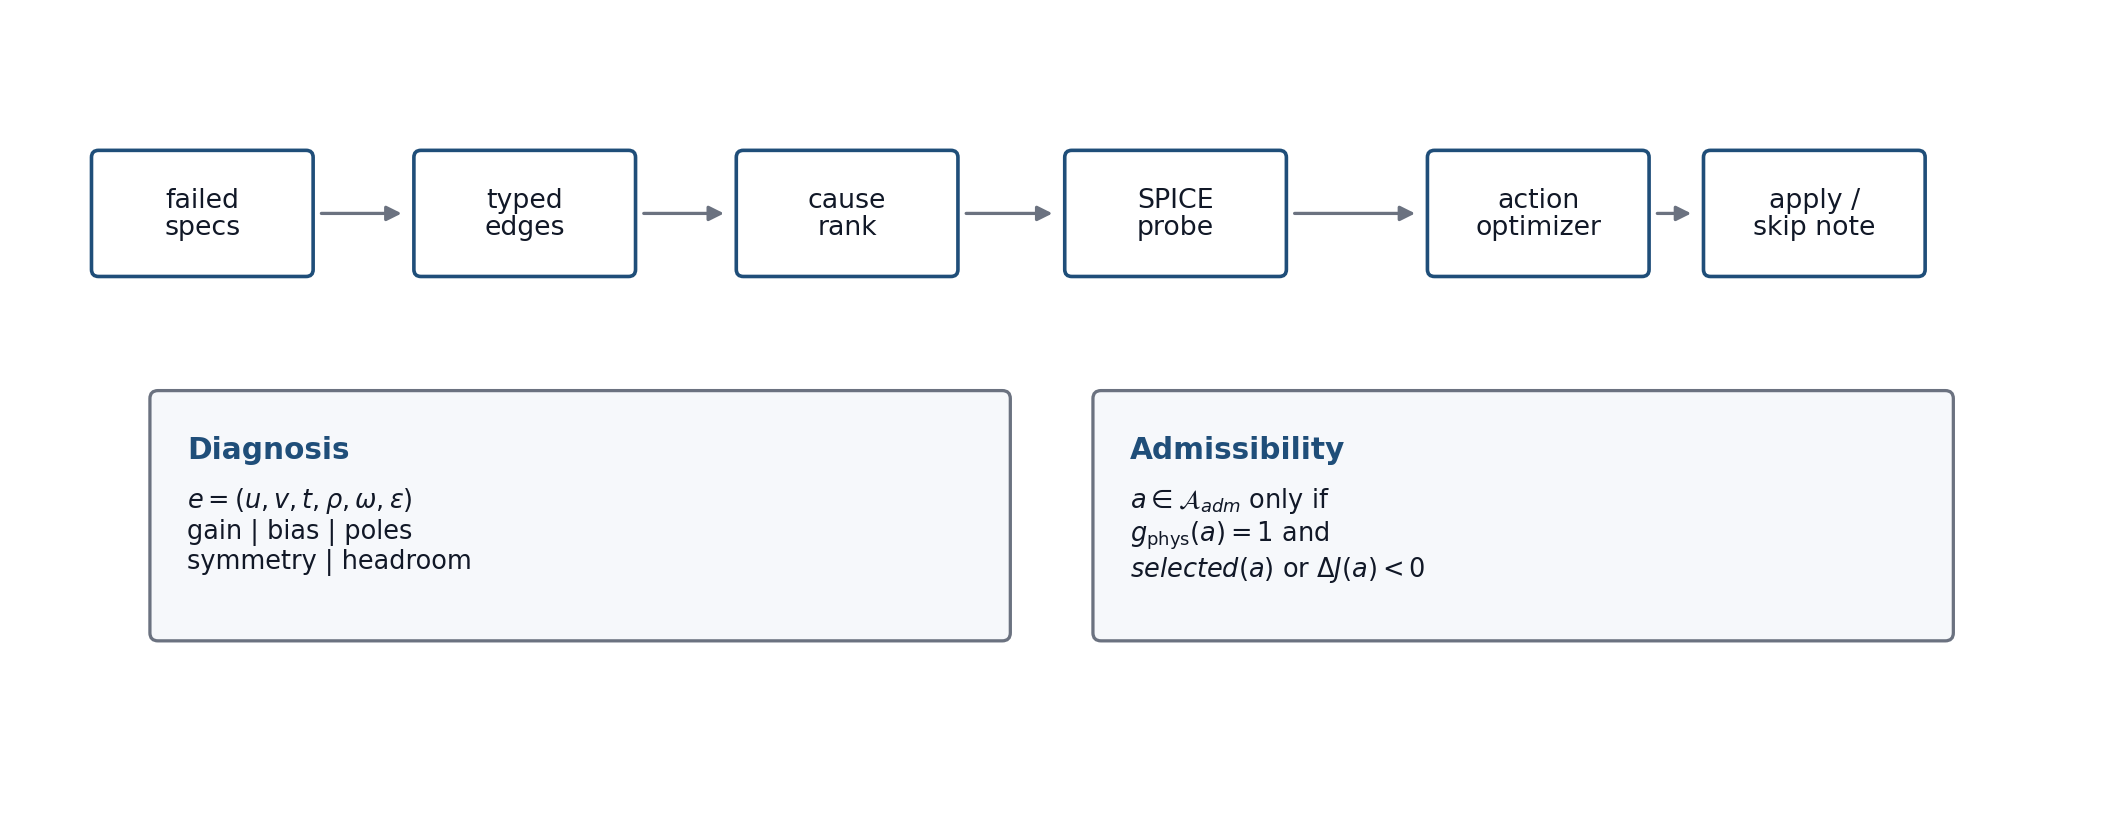
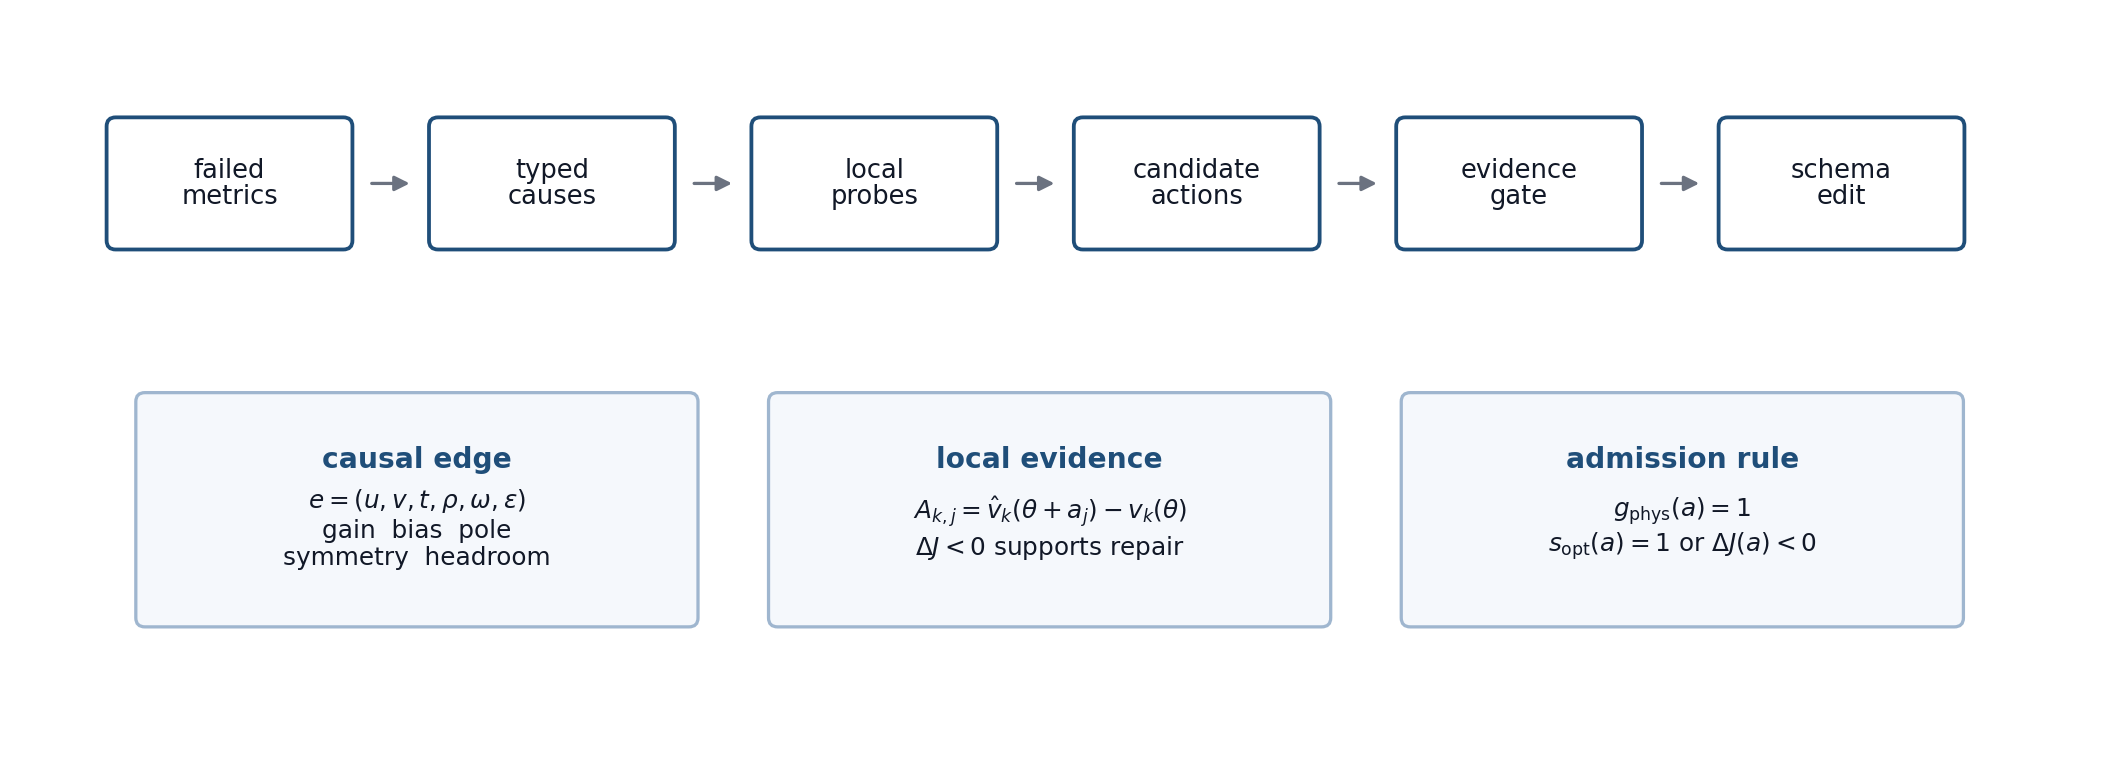
Refocus diagnosis documentation figures

diff --git a/scripts/plot_method_figures.py b/scripts/plot_method_figures.py
@@ -126,46 +126,44 @@ def draw_optimization_loop() -> plt.Figure:
 
 
 def draw_diagnosis_loop() -> plt.Figure:
-    fig, ax = base_fig(10.2, 3.85)
+    fig, ax = base_fig(10.2, 3.65)
 
-    stages = [
-        (0.35, "failed\nspecs"),
-        (1.95, "typed\nedges"),
-        (3.55, "cause\nrank"),
-        (5.18, "SPICE\nprobe"),
-        (6.98, "action\noptimizer"),
-        (8.35, "apply /\nskip note"),
+    stage_w = 1.18
+    stage_h = 0.62
+    y = 2.55
+    xs = [0.42, 2.02, 3.62, 5.22, 6.82, 8.42]
+    labels = [
+        "failed\nmetrics",
+        "typed\ncauses",
+        "local\nprobes",
+        "candidate\nactions",
+        "evidence\ngate",
+        "schema\nedit",
     ]
-    for i, (x, label) in enumerate(stages):
-        node(ax, x, 2.62, 1.05, 0.58, label)
-        if i < len(stages) - 1:
-            arrow(ax, x + 1.08, 2.91, stages[i + 1][0] - 0.05, 2.91)
+    for i, (x, label) in enumerate(zip(xs, labels)):
+        flow_node(ax, x, y, stage_w, stage_h, label)
+        if i < len(xs) - 1:
+            arrow(ax, x + stage_w + 0.08, y + stage_h / 2, xs[i + 1] - 0.08, y + stage_h / 2)
 
-    panel(
-        ax,
-        0.66,
-        0.82,
-        4.18,
-        1.16,
-        "Diagnosis",
-        [
-            r"$e=(u,v,t,\rho,\omega,\epsilon)$",
-            "gain | bias | poles\nsymmetry | headroom",
-        ],
-    )
-    panel(
-        ax,
-        5.34,
-        0.82,
-        4.18,
-        1.16,
-        "Admissibility",
-        [
-            r"$a\in\mathcal{A}_{adm}$ only if",
-            r"$g_{\rm phys}(a)=1$ and",
-            r"$selected(a)$ or $\Delta J(a)<0$",
-        ],
-    )
+    cards = [
+        (
+            0.58,
+            "causal edge",
+            [r"$e=(u,v,t,\rho,\omega,\epsilon)$", "gain  bias  pole", "symmetry  headroom"],
+        ),
+        (
+            3.72,
+            "local evidence",
+            [r"$A_{k,j}=\hat v_k(\theta+a_j)-v_k(\theta)$", r"$\Delta J < 0$ supports repair"],
+        ),
+        (
+            6.86,
+            "admission rule",
+            [r"$g_{\rm phys}(a)=1$", r"$s_{\rm opt}(a)=1$ or $\Delta J(a)<0$"],
+        ),
+    ]
+    for x, heading, lines in cards:
+        evidence_card(ax, x, 0.68, 2.72, 1.10, heading, lines)
     return fig
 
 
@@ -193,6 +191,35 @@ def node(ax: plt.Axes, x: float, y: float, w: float, h: float, text: str) -> Non
     )
     ax.add_patch(patch)
     ax.text(x + w / 2, y + h / 2, text, ha="center", va="center", fontsize=7.4, color=INK, linespacing=1.05)
+
+
+def flow_node(ax: plt.Axes, x: float, y: float, w: float, h: float, text: str) -> None:
+    patch = FancyBboxPatch(
+        (x, y),
+        w,
+        h,
+        boxstyle="round,pad=0.020,rounding_size=0.045",
+        linewidth=1.05,
+        edgecolor=ACCENT,
+        facecolor=WHITE,
+    )
+    ax.add_patch(patch)
+    ax.text(x + w / 2, y + h / 2, text, ha="center", va="center", fontsize=7.15, color=INK, linespacing=1.03)
+
+
+def evidence_card(ax: plt.Axes, x: float, y: float, w: float, h: float, heading: str, lines: list[str]) -> None:
+    patch = FancyBboxPatch(
+        (x, y),
+        w,
+        h,
+        boxstyle="round,pad=0.035,rounding_size=0.045",
+        linewidth=0.9,
+        edgecolor="#9fb6cf",
+        facecolor="#f5f8fc",
+    )
+    ax.add_patch(patch)
+    ax.text(x + w / 2, y + h - 0.23, heading, ha="center", va="top", fontsize=7.8, weight="bold", color=ACCENT)
+    ax.text(x + w / 2, y + 0.46, "\n".join(lines), ha="center", va="center", fontsize=6.85, color=INK, linespacing=1.17)
 
 
 def circle_node(ax: plt.Axes, x: float, y: float, r: float, text: str) -> None:

diff --git a/scripts/plot_full_flow_results.py b/scripts/plot_full_flow_results.py
@@ -108,7 +108,6 @@ def main(argv: list[str] | None = None) -> int:
         raise SystemExit("No full-flow result.json files found.")
     records = pd.DataFrame(rows)
     figures = {
-        "full_flow_ota_results": plot_records(records),
         "full_flow_ota_achievement": plot_achievement_heatmap(records),
         "full_flow_ota_summary": plot_summary_table(records),
     }
@@ -119,10 +118,7 @@ def main(argv: list[str] | None = None) -> int:
             records.to_csv(out_dir / "full_flow_ota_results.csv", index=False)
         for fmt in formats:
             for name, fig in figures.items():
-                if name == "full_flow_ota_results":
-                    fig.savefig(out_dir / f"{name}.{fmt}", dpi=args.dpi, bbox_inches="tight")
-                else:
-                    fig.savefig(out_dir / f"{name}.{fmt}", dpi=args.dpi)
+                fig.savefig(out_dir / f"{name}.{fmt}", dpi=args.dpi)
     for fig in figures.values():
         plt.close(fig)
     print(f"Wrote full-flow OTA figures for {len(records)} topologies.")

diff --git a/README.md b/README.md
@@ -1,10 +1,11 @@
 # AnalogRF-IR
 
-AnalogRF-IR is a simulator-backed analog circuit optimization framework with
-explicit causal diagnosis and evidence-gated agent actions. The current
+AnalogRF-IR is a simulator-backed analog circuit optimization framework built
+around explicit causal diagnosis and evidence-gated agent actions. The current
 implementation focuses on OTA sizing in IHP SG13G2 130 nm under high-impedance
-capacitive loading, while keeping the schema, optimizer, simulator, diagnosis,
-and postprocess layers separated for reproducible ablation.
+capacitive loading. Its main design objective is not unrestricted automatic
+sizing, but a traceable diagnostic loop from failed metrics to typed causes,
+local SPICE probes, optimizer-approved actions, and audited schema edits.
 
 The central design contract is simple: optimizer, human review, deterministic
 diagnosis, and LLM planning all operate through the same typed YAML schema, and
@@ -34,29 +35,18 @@ evidence and physical validation.
 
 ![Diagnosis-centered analog optimization architecture](docs/assets/analogdiag_architecture.png)
 
-The flow uses a shared schema state as the executable interface between human
-review, agent diagnosis, surrogate search, ngspice validation, and repair.
-Planner suggestions are not applied directly. They must map to admissible
-schema commands.
-
-![Schema as the shared executable state](docs/assets/analogdiag_schema_state.png)
-
-The schema records topology \(G\), editable variables \(\theta\), targets and
-losses, typed dependencies, and simulator evidence. Large artifacts remain in
-JSON logs, keeping YAML inputs reviewable.
-
-![Optimization and validation execution loop](docs/assets/analogdiag_optimization_loop.png)
-
-The execution loop combines gm/ID estimation, bounded NSGA-II search, SPICE
-validation, candidate archiving, objective gating, and optional repair.
-Middlebrook-style loop-gain reasoning motivates the UGBW/phase-margin
-measurements and Miller-compensation tuning.
+The flow uses a typed schema as the executable interface between human review,
+agent diagnosis, surrogate search, ngspice validation, and repair. The schema
+records topology roles, editable variables, targets, dependencies, and compact
+simulator evidence. Planner suggestions are never applied directly; they must
+map to admissible schema commands.
 
 ![Causal diagnosis and evidence-gated action selection](docs/assets/analogdiag_diagnosis_loop.png)
 
-The diagnosis layer turns failed specifications into typed causal edges, ranked
-causes, local SPICE probes, and optimizer-approved actions. Unsupported LLM
-edits are recorded as skipped notes.
+The diagnosis loop is the core of the project. Failed metrics are mapped to
+typed causes, tested through local SPICE probes, converted into candidate
+actions, and filtered by the evidence gate. Unsupported LLM edits are recorded
+as skipped notes rather than executable changes.
 
 ## Evidence Gate
 
@@ -115,7 +105,9 @@ scored against the targets above.
 | Telescopic OTA | pass | 6 | 51.96 dB | 9.33 MHz | 60.6 deg | 6.09 V/us | 0.836 V | 20.31 uW |
 | Two-stage Miller OTA | pass | 7 | 57.75 dB | 26.46 MHz | 62.7 deg | 13.02 V/us | 0.592 V | 140.37 uW |
 
-![Full-flow OTA target achievement](docs/assets/full_flow_ota_results.png)
+| Target achievement | Reference metrics |
+| --- | --- |
+| ![Full-flow OTA target achievement](docs/assets/full_flow_ota_achievement.png) | ![Full-flow OTA reference metrics](docs/assets/full_flow_ota_summary.png) |
 
 Diagnosis quality is evaluated from artifacts rather than pass rate alone:
 local SPICE probes test whether proposed actions reduce failed violations, and

diff --git a/docs/README.md b/docs/README.md
@@ -193,7 +193,9 @@ Folded-cascode, telescopic, and two-stage Miller use the updated
 topology-guided repair flow and pass the current high-impedance CL=1 pF
 targets.
 
-![Full-flow OTA target achievement](assets/full_flow_ota_results.png)
+| Target achievement | Reference metrics |
+| --- | --- |
+| ![Full-flow OTA target achievement](assets/full_flow_ota_achievement.png) | ![Full-flow OTA reference metrics](assets/full_flow_ota_summary.png) |
 
 Diagnosis claims are checked by local SPICE probes, and executable actions are
 reported through explicit objective-gated apply/skip records.
